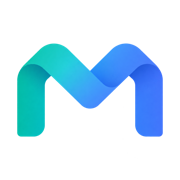
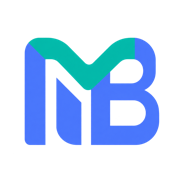
1. 切换为 MB 字母融合版品牌标志
2. 采用用户选定的透明原图，补齐高清、网站显示和 Google 上传尺寸，统一网站、HTML 演示、浏览器标签与主屏幕图标。
3. 将共享品牌组件及各入口的图标缓存版本更新为 bridge-v2，使浏览器及时加载选定的新标志。
4. 保存三组候选设计及多尺寸资源，并更新选用记录和完整生成提示词，便于后续复用与调整。
5. 前端类型检查、生产构建与 HTML 脚本语法检查通过；Chrome 已验证主要页面、23 个 HTML 入口、手机端、深色模式、收起侧边栏和模拟充值弹窗。

diff --git a/html/assets/app.js b/html/assets/app.js
@@ -653,7 +653,7 @@
     };
   });
   const brand = (publicPage = false) =>
-    `<a class="brand" href="${publicPage ? "landing.html" : "index.html"}" aria-label="Model Bridge ${publicPage ? "首页" : "总览"}"><img src="assets/model-bridge-logo.png" alt=""><div>${state.settings.name === "Model Bridge" ? "Model<span>Bridge</span>" : esc(state.settings.name)}</div></a>`;
+    `<a class="brand" href="${publicPage ? "landing.html" : "index.html"}" aria-label="Model Bridge ${publicPage ? "首页" : "总览"}"><img src="assets/model-bridge-logo.png?v=bridge-v2" alt=""><div>${state.settings.name === "Model Bridge" ? "Model<span>Bridge</span>" : esc(state.settings.name)}</div></a>`;
   function navigation() {
     return (isUser ? userNav : adminNav)
       .map(
@@ -1476,7 +1476,7 @@
     if (settingsTab === "account")
       body = `<div class="flex mb">${avatar("Admin")}<div><h3>管理员</h3><small class="muted">admin@example.test · 演示账户</small></div></div><div class="form-grid">${field("currentPassword", "当前密码", "", "password", "演示任意密码，不会发送或保存。", 'autocomplete="current-password" required')}${field("newPassword", "新密码", "", "password", "至少 8 位字符。", 'autocomplete="new-password" minlength="8" required')}${field("confirmPassword", "确认新密码", "", "password", "", 'autocomplete="new-password" minlength="8" required')}</div>`;
     if (settingsTab === "about")
-      body = `<div class="flex mb"><img src="assets/model-bridge-logo.png" alt="" width="48" height="48"><div><h2>Model Bridge</h2><p class="muted" style="font-size:11px">Version 0.1.183 · HTML Design Edition</p></div></div><p class="secondary" style="font-size:12px;line-height:2">把不同服务商的模型，连接到统一的 API。此版本为完整界面设计演示，数据存储在当前浏览器中。</p><div class="divider"></div><div class="detail-list"><div class="detail-item"><small>数据模式</small><strong>本地模拟数据</strong></div><div class="detail-item"><small>界面版本</small><strong>2026.09.08</strong></div><div class="detail-item"><small>当前存储</small><strong>此浏览器</strong></div><div class="detail-item"><small>静态交付</small><strong>HTML / CSS / JavaScript</strong></div></div><div class="divider"></div>${btn("恢复初始演示数据", "reset-demo", "refresh")}`;
+      body = `<div class="flex mb"><img src="assets/model-bridge-logo.png?v=bridge-v2" alt="" width="48" height="48"><div><h2>Model Bridge</h2><p class="muted" style="font-size:11px">Version 0.1.183 · HTML Design Edition</p></div></div><p class="secondary" style="font-size:12px;line-height:2">把不同服务商的模型，连接到统一的 API。此版本为完整界面设计演示，数据存储在当前浏览器中。</p><div class="divider"></div><div class="detail-list"><div class="detail-item"><small>数据模式</small><strong>本地模拟数据</strong></div><div class="detail-item"><small>界面版本</small><strong>2026.09.08</strong></div><div class="detail-item"><small>当前存储</small><strong>此浏览器</strong></div><div class="detail-item"><small>静态交付</small><strong>HTML / CSS / JavaScript</strong></div></div><div class="divider"></div>${btn("恢复初始演示数据", "reset-demo", "refresh")}`;
     return (
       pageHead() +
       `<div class="settings-layout"><nav class="settings-nav" aria-label="设置分类">${tabs.map(([v, t, i]) => `<button class="${settingsTab === v ? "active" : ""}" data-action="settings-tab" data-value="${v}" ${settingsTab === v ? 'aria-current="page"' : ""}>${I(i, "icon-sm")}${t}</button>`).join("")}</nav><section class="panel settings-panel"><div class="panel-header"><div><h2>${tabs.find((t) => t[0] === settingsTab)[1]}</h2><p class="panel-subtitle">${settingsTab === "about" ? "关于此界面演示" : "更改将在保存后应用于本地演示"}</p></div></div><form class="settings-form" data-form="settings"><div class="form-error" role="alert"></div>${body}${settingsTab !== "about" ? `<div class="form-actions"><span class="muted">仅影响本地演示</span>${btn("还原本页", "reload-settings")}<button class="btn btn-primary" type="submit">${I("check")}保存更改</button></div>` : ""}</form></section></div>`

diff --git a/html/landing.html b/html/landing.html
@@ -9,8 +9,8 @@
     />
     <meta name="color-scheme" content="light dark" />
     <title>连接模型与可能 · Model Bridge</title>
-    <link rel="icon" href="assets/favicon.png?v=bridge-v1" type="image/png" sizes="32x32" />
-    <link rel="apple-touch-icon" href="assets/apple-touch-icon.png?v=bridge-v1" sizes="180x180" />
+    <link rel="icon" href="assets/favicon.png?v=bridge-v2" type="image/png" sizes="32x32" />
+    <link rel="apple-touch-icon" href="assets/apple-touch-icon.png?v=bridge-v2" sizes="180x180" />
     <link rel="stylesheet" href="assets/styles.css" />
     <!-- Keep all offline navigation and demo storage on a single document. -->
     <script>

diff --git a/html/index.html b/html/index.html
@@ -9,8 +9,8 @@
     />
     <meta name="color-scheme" content="light dark" />
     <title>总览 · Model Bridge</title>
-    <link rel="icon" href="assets/favicon.png?v=bridge-v1" type="image/png" sizes="32x32" />
-    <link rel="apple-touch-icon" href="assets/apple-touch-icon.png?v=bridge-v1" sizes="180x180" />
+    <link rel="icon" href="assets/favicon.png?v=bridge-v2" type="image/png" sizes="32x32" />
+    <link rel="apple-touch-icon" href="assets/apple-touch-icon.png?v=bridge-v2" sizes="180x180" />
     <link rel="stylesheet" href="assets/styles.css" />
     <script src="assets/icons.js" defer></script>
     <script src="assets/catalog.js" defer></script>

diff --git a/html/accept-invite.html b/html/accept-invite.html
@@ -9,8 +9,8 @@
     />
     <meta name="color-scheme" content="light dark" />
     <title>接受邀请 · Model Bridge</title>
-    <link rel="icon" href="assets/favicon.png?v=bridge-v1" type="image/png" sizes="32x32" />
-    <link rel="apple-touch-icon" href="assets/apple-touch-icon.png?v=bridge-v1" sizes="180x180" />
+    <link rel="icon" href="assets/favicon.png?v=bridge-v2" type="image/png" sizes="32x32" />
+    <link rel="apple-touch-icon" href="assets/apple-touch-icon.png?v=bridge-v2" sizes="180x180" />
     <link rel="stylesheet" href="assets/styles.css" />
     <!-- Keep all offline navigation and demo storage on a single document. -->
     <script>

diff --git a/html/account-groups.html b/html/account-groups.html
@@ -9,8 +9,8 @@
     />
     <meta name="color-scheme" content="light dark" />
     <title>分组管理 · Model Bridge</title>
-    <link rel="icon" href="assets/favicon.png?v=bridge-v1" type="image/png" sizes="32x32" />
-    <link rel="apple-touch-icon" href="assets/apple-touch-icon.png?v=bridge-v1" sizes="180x180" />
+    <link rel="icon" href="assets/favicon.png?v=bridge-v2" type="image/png" sizes="32x32" />
+    <link rel="apple-touch-icon" href="assets/apple-touch-icon.png?v=bridge-v2" sizes="180x180" />
     <link rel="stylesheet" href="assets/styles.css" />
     <!-- Keep all offline navigation and demo storage on a single document. -->
     <script>

diff --git a/html/accounts.html b/html/accounts.html
@@ -9,8 +9,8 @@
     />
     <meta name="color-scheme" content="light dark" />
     <title>上游账户 · Model Bridge</title>
-    <link rel="icon" href="assets/favicon.png?v=bridge-v1" type="image/png" sizes="32x32" />
-    <link rel="apple-touch-icon" href="assets/apple-touch-icon.png?v=bridge-v1" sizes="180x180" />
+    <link rel="icon" href="assets/favicon.png?v=bridge-v2" type="image/png" sizes="32x32" />
+    <link rel="apple-touch-icon" href="assets/apple-touch-icon.png?v=bridge-v2" sizes="180x180" />
     <link rel="stylesheet" href="assets/styles.css" />
     <!-- Keep all offline navigation and demo storage on a single document. -->
     <script>

diff --git a/html/docs.html b/html/docs.html
@@ -9,8 +9,8 @@
     />
     <meta name="color-scheme" content="light dark" />
     <title>使用文档 · Model Bridge</title>
-    <link rel="icon" href="assets/favicon.png?v=bridge-v1" type="image/png" sizes="32x32" />
-    <link rel="apple-touch-icon" href="assets/apple-touch-icon.png?v=bridge-v1" sizes="180x180" />
+    <link rel="icon" href="assets/favicon.png?v=bridge-v2" type="image/png" sizes="32x32" />
+    <link rel="apple-touch-icon" href="assets/apple-touch-icon.png?v=bridge-v2" sizes="180x180" />
     <link rel="stylesheet" href="assets/styles.css" />
     <!-- Keep all offline navigation and demo storage on a single document. -->
     <script>

diff --git a/html/models.html b/html/models.html
@@ -9,8 +9,8 @@
     />
     <meta name="color-scheme" content="light dark" />
     <title>模型广场 · Model Bridge</title>
-    <link rel="icon" href="assets/favicon.png?v=bridge-v1" type="image/png" sizes="32x32" />
-    <link rel="apple-touch-icon" href="assets/apple-touch-icon.png?v=bridge-v1" sizes="180x180" />
+    <link rel="icon" href="assets/favicon.png?v=bridge-v2" type="image/png" sizes="32x32" />
+    <link rel="apple-touch-icon" href="assets/apple-touch-icon.png?v=bridge-v2" sizes="180x180" />
     <link rel="stylesheet" href="assets/styles.css" />
     <!-- Keep all offline navigation and demo storage on a single document. -->
     <script>

diff --git a/html/payments.html b/html/payments.html
@@ -9,8 +9,8 @@
     />
     <meta name="color-scheme" content="light dark" />
     <title>充值订单 · Model Bridge</title>
-    <link rel="icon" href="assets/favicon.png?v=bridge-v1" type="image/png" sizes="32x32" />
-    <link rel="apple-touch-icon" href="assets/apple-touch-icon.png?v=bridge-v1" sizes="180x180" />
+    <link rel="icon" href="assets/favicon.png?v=bridge-v2" type="image/png" sizes="32x32" />
+    <link rel="apple-touch-icon" href="assets/apple-touch-icon.png?v=bridge-v2" sizes="180x180" />
     <link rel="stylesheet" href="assets/styles.css" />
     <!-- Keep all offline navigation and demo storage on a single document. -->
     <script>

diff --git a/html/settings.html b/html/settings.html
@@ -9,8 +9,8 @@
     />
     <meta name="color-scheme" content="light dark" />
     <title>系统设置 · Model Bridge</title>
-    <link rel="icon" href="assets/favicon.png?v=bridge-v1" type="image/png" sizes="32x32" />
-    <link rel="apple-touch-icon" href="assets/apple-touch-icon.png?v=bridge-v1" sizes="180x180" />
+    <link rel="icon" href="assets/favicon.png?v=bridge-v2" type="image/png" sizes="32x32" />
+    <link rel="apple-touch-icon" href="assets/apple-touch-icon.png?v=bridge-v2" sizes="180x180" />
     <link rel="stylesheet" href="assets/styles.css" />
     <!-- Keep all offline navigation and demo storage on a single document. -->
     <script>

diff --git a/html/stats.html b/html/stats.html
@@ -9,8 +9,8 @@
     />
     <meta name="color-scheme" content="light dark" />
     <title>用量统计 · Model Bridge</title>
-    <link rel="icon" href="assets/favicon.png?v=bridge-v1" type="image/png" sizes="32x32" />
-    <link rel="apple-touch-icon" href="assets/apple-touch-icon.png?v=bridge-v1" sizes="180x180" />
+    <link rel="icon" href="assets/favicon.png?v=bridge-v2" type="image/png" sizes="32x32" />
+    <link rel="apple-touch-icon" href="assets/apple-touch-icon.png?v=bridge-v2" sizes="180x180" />
     <link rel="stylesheet" href="assets/styles.css" />
     <!-- Keep all offline navigation and demo storage on a single document. -->
     <script>

diff --git a/html/subscription-plans.html b/html/subscription-plans.html
@@ -9,8 +9,8 @@
     />
     <meta name="color-scheme" content="light dark" />
     <title>订阅套餐 · Model Bridge</title>
-    <link rel="icon" href="assets/favicon.png?v=bridge-v1" type="image/png" sizes="32x32" />
-    <link rel="apple-touch-icon" href="assets/apple-touch-icon.png?v=bridge-v1" sizes="180x180" />
+    <link rel="icon" href="assets/favicon.png?v=bridge-v2" type="image/png" sizes="32x32" />
+    <link rel="apple-touch-icon" href="assets/apple-touch-icon.png?v=bridge-v2" sizes="180x180" />
     <link rel="stylesheet" href="assets/styles.css" />
     <!-- Keep all offline navigation and demo storage on a single document. -->
     <script>
